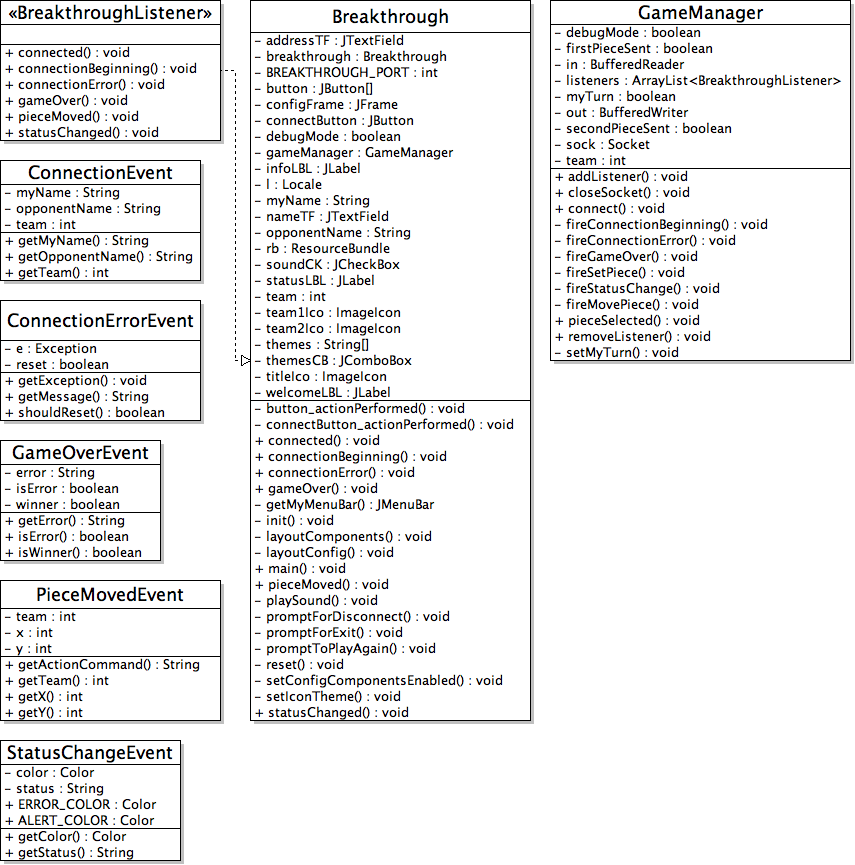
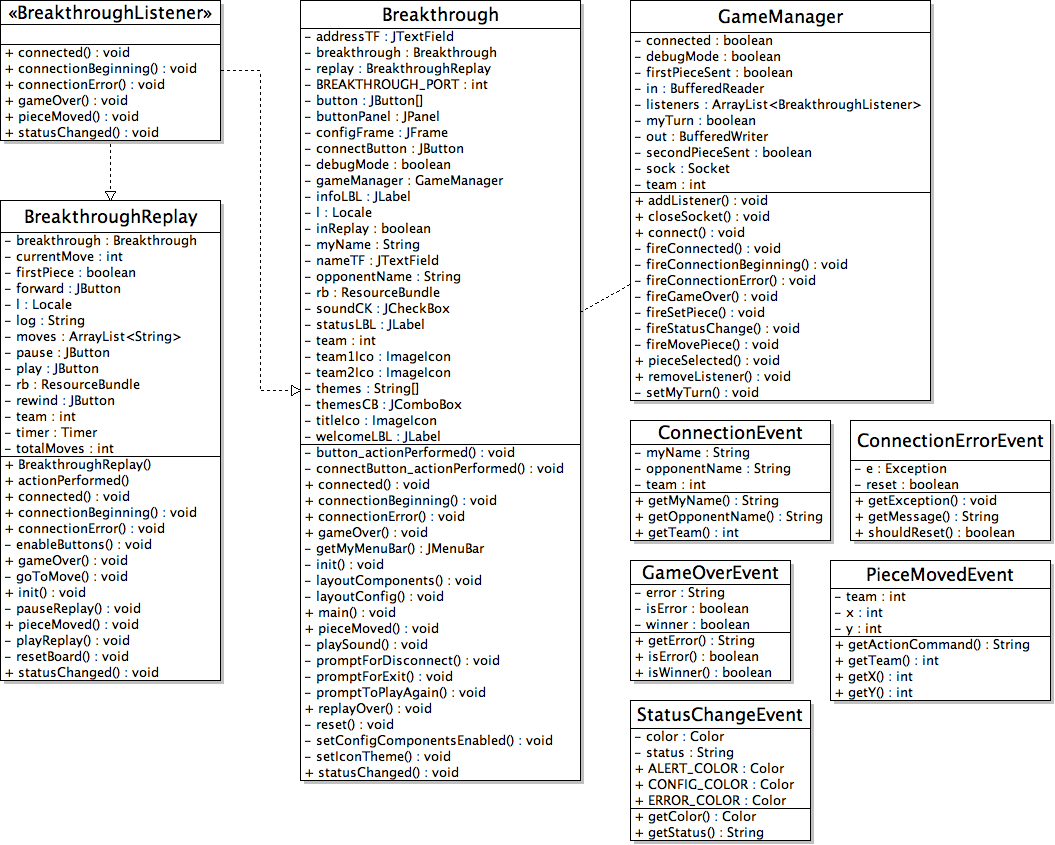
Replay bugfixes Added current move text to Replay Updated client UML

Changed region(s): [[0.0, 0.0, 1.0, 1.0]]

diff --git a/client/BreakthroughReplay.java b/client/BreakthroughReplay.java
@@ -27,6 +27,7 @@ public class BreakthroughReplay implements BreakthroughListener, ActionListener 
 	private JButton pause;
 	private JButton play;
 	private JButton rewind;
+	private JLabel status;
 	private int team;
 	private Timer timer;
 	private int totalMoves;
@@ -54,24 +55,27 @@ public class BreakthroughReplay implements BreakthroughListener, ActionListener 
 			play.setEnabled(true);
 			pause.setEnabled(false);
 			enableButtons();
+			status.setText(rb.getString("replayCurrentMove")+": "+totalMoves+"/"+totalMoves);
 		}
 		else {
 			String thisMove = moves.get(currentMove);
-
+			
 			// Parse info for first piece
 			int team1 = Integer.parseInt(thisMove.substring(0,1));
 			int x1 = Integer.parseInt(thisMove.substring(1,2));
 			int y1 = Integer.parseInt(thisMove.substring(2,3));
-
+			
 			// Parse info for second piece
 			int team2 = Integer.parseInt(thisMove.substring(4,5));
 			int x2 = Integer.parseInt(thisMove.substring(5,6));
 			int y2 = Integer.parseInt(thisMove.substring(6,7));
-
+			
 			breakthrough.pieceMoved(new PieceMovedEvent(team1, x1, y1));
 			breakthrough.pieceMoved(new PieceMovedEvent(team2, x2, y2));
-
+			
 			currentMove++;
+			status.setText(rb.getString("replayCurrentMove")+": "+currentMove+"/"+totalMoves);
+			
 		}
 	}
 	
@@ -141,14 +145,22 @@ public class BreakthroughReplay implements BreakthroughListener, ActionListener 
 		controls.add(pause);
 		controls.add(forward);
 		
-		JPanel gameControls = new JPanel(new BorderLayout());
+		JPanel statusPanel = new JPanel(new BorderLayout());
+		JPanel statusMessagePanel = new JPanel();
+		status = new JLabel(rb.getString("replayCurrentMove")+": 0/"+totalMoves);
+		statusMessagePanel.add(status);
+		statusPanel.add(new JSeparator(), BorderLayout.NORTH);
+		statusPanel.add(new JPanel().add(statusMessagePanel));
+		statusPanel.add(new JSeparator(), BorderLayout.SOUTH);
+		
+		JPanel gameControls = new JPanel();
 		JButton newGame = new JButton(rb.getString("playAgainButton"));
 		JButton exit = new JButton(rb.getString("exit"));
-		gameControls.add(new JPanel(new FlowLayout()).add(newGame), BorderLayout.NORTH);
-		gameControls.add(new JPanel(new FlowLayout()).add(exit), BorderLayout.SOUTH);
+		gameControls.add(newGame);
+		gameControls.add(exit);
 		
 		replayController.add(controls, BorderLayout.NORTH);
-		replayController.add(new JSeparator(), BorderLayout.CENTER);
+		replayController.add(statusPanel, BorderLayout.CENTER);
 		replayController.add(gameControls, BorderLayout.SOUTH);
 		
 		rewind.addActionListener(new ActionListener() {
@@ -191,8 +203,8 @@ public class BreakthroughReplay implements BreakthroughListener, ActionListener 
 		replayController.setVisible(true);
 		
 		timer = new Timer(1000, this);
-		
 		resetBoard();
+		breakthrough.statusChanged(new StatusChangeEvent("replayViewing"));
 		
 	}
 	
@@ -246,6 +258,7 @@ public class BreakthroughReplay implements BreakthroughListener, ActionListener 
 	private void resetBoard() {
 		
 		currentMove = 0;
+		status.setText(rb.getString("replayCurrentMove")+": 0/"+totalMoves);
 		
 		for (int i = 0; i < 8; i++) {
 			for (int j = 0; j < 8; j++) {

diff --git a/client/Breakthrough.java b/client/Breakthrough.java
@@ -648,6 +648,10 @@ public class Breakthrough extends JFrame implements BreakthroughListener {
 		
 	}
 	
+	/**
+	 * When the replay is over - either exit or reset
+	 * @param action The action to take
+	 */
 	public void replayOver(String action) {
 		if (action.equals("exit")) {
 			System.exit(0);
